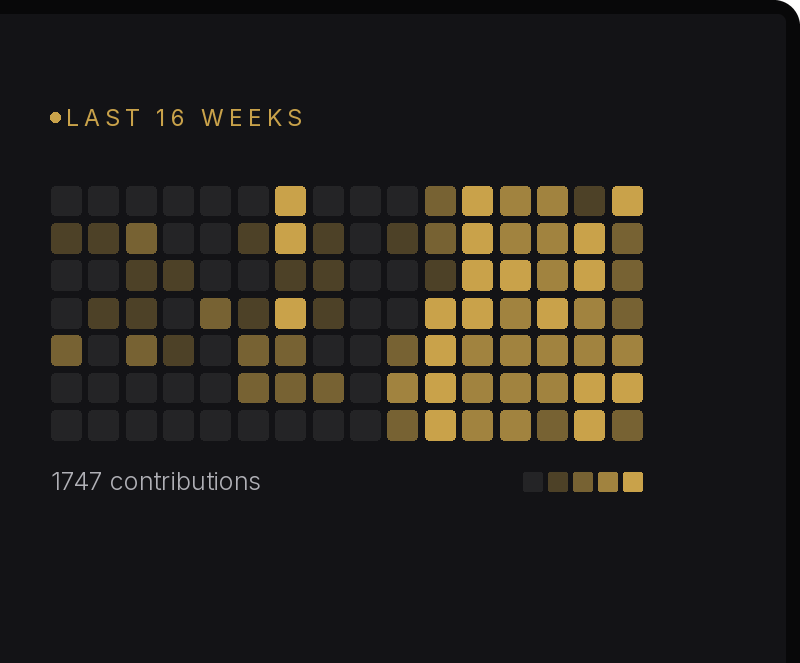
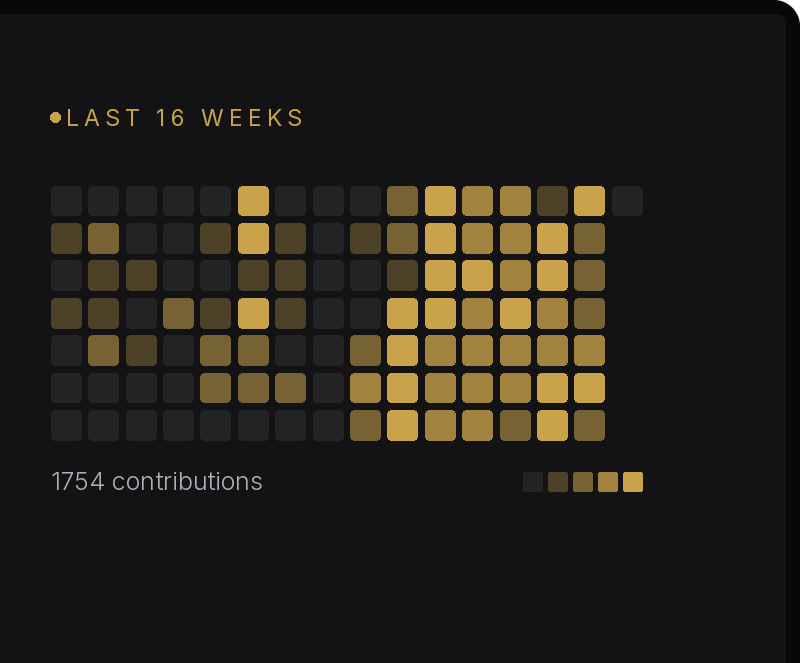
Refresh the panel

Changed region(s): [[0.0625, 0.2715, 0.8125, 0.6637], [0.0938, 0.6938, 0.3438, 0.7541]]

diff --git a/README.md b/README.md
@@ -1,5 +1,5 @@
 <!-- hero:start -->
-<p><a href="https://emirmrkaljevic.github.io/panelos-site/"><img src="./assets/hero/r1a.png?v=189036ea" width="45.504%" align="top" alt="GitHub numbers on my PanelOS screen: commits and active days over the last 12 months"></a><a href="https://github.com/emirmrkaljevic"><img src="./assets/hero/r1b.png?v=cd040d2a" width="54.495%" align="top" alt="My contribution grid for the last weeks"></a><br><a href="https://emirmrkaljevic.github.io/panelos-site/"><img src="./assets/hero/r2a.png?v=058be8fb" width="45.504%" align="top" alt="Active days, stars, and date"></a><a href="https://github.com/emirmrkaljevic"><img src="./assets/hero/r2b.png?v=221dc114" width="54.495%" align="top" alt="After hours: 67%, last 12 months"></a><br><a href="https://linkedin.com/in/emirmrkaljevic"><img src="./assets/hero/r3a.png?v=20c75e7d" width="25.476%" align="top" alt="LinkedIn"></a><a href="https://github.com/emirmrkaljevic"><img src="./assets/hero/r3b.png?v=d58b5e37" width="24.523%" align="top" alt="GitHub"></a><a href="https://dev.to/emirmrkaljevic"><img src="./assets/hero/r3c.png?v=3afaf4e1" width="24.523%" align="top" alt="dev.to"></a><a href="https://hatt.at"><img src="./assets/hero/r3d.png?v=cdbaf768" width="25.476%" align="top" alt="hatt.at"></a></p>
+<p><a href="https://emirmrkaljevic.github.io/panelos-site/"><img src="./assets/hero/r1a.png?v=f60345e6" width="45.504%" align="top" alt="GitHub numbers on my PanelOS screen: commits and active days over the last 12 months"></a><a href="https://github.com/emirmrkaljevic"><img src="./assets/hero/r1b.png?v=cc53607e" width="54.495%" align="top" alt="My contribution grid for the last weeks"></a><br><a href="https://emirmrkaljevic.github.io/panelos-site/"><img src="./assets/hero/r2a.png?v=deb7f4cb" width="45.504%" align="top" alt="Active days, stars, and date"></a><a href="https://github.com/emirmrkaljevic"><img src="./assets/hero/r2b.png?v=221dc114" width="54.495%" align="top" alt="After hours: 67%, last 12 months"></a><br><a href="https://linkedin.com/in/emirmrkaljevic"><img src="./assets/hero/r3a.png?v=20c75e7d" width="25.476%" align="top" alt="LinkedIn"></a><a href="https://github.com/emirmrkaljevic"><img src="./assets/hero/r3b.png?v=d58b5e37" width="24.523%" align="top" alt="GitHub"></a><a href="https://dev.to/emirmrkaljevic"><img src="./assets/hero/r3c.png?v=3afaf4e1" width="24.523%" align="top" alt="dev.to"></a><a href="https://hatt.at"><img src="./assets/hero/r3d.png?v=cdbaf768" width="25.476%" align="top" alt="hatt.at"></a></p>
 <!-- hero:end -->
 
 <p><b>Building banking systems by day, open-source tools by night.</b></p>
